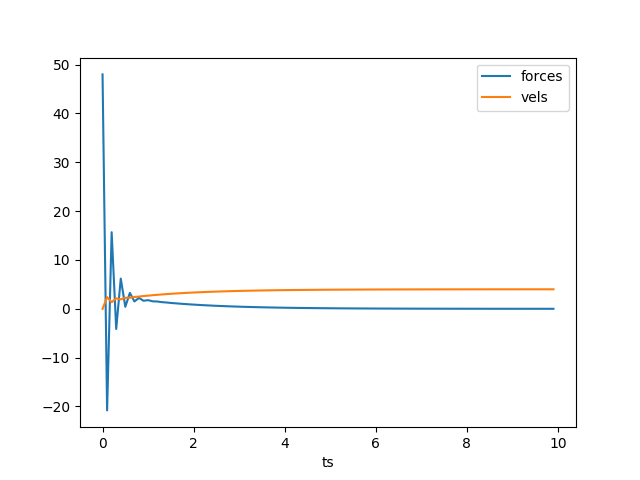
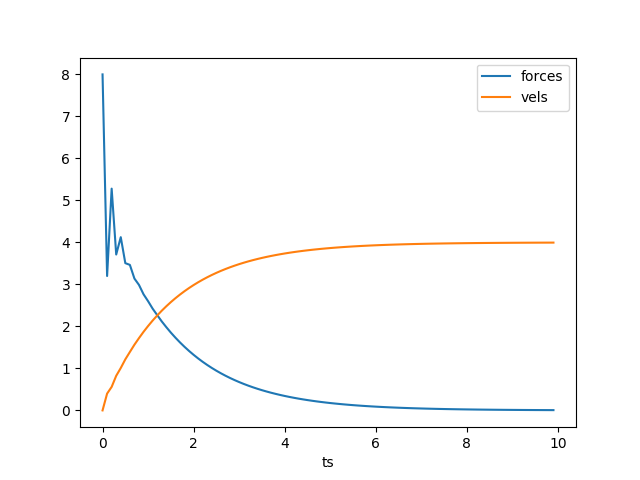
-

diff --git a/phy/phy_030_pid/phy_030_pid.html b/phy/phy_030_pid/phy_030_pid.html
@@ -53,13 +53,13 @@ formulu o sebeple objesel yaklasimla kodlamak iyi olabilir. Her degisken
 icin ayri bir PID objesi yaratilabilir, bu objeler eski hatalari, takip
 ettikleri degiskenleri hatirlarlar,</p>
 <pre><code class="python">class PID:
-   def __init__(self, dt, Kp, Ki, Kd):
+   def __init__(self, dt, Kp, Ki, Kd, lastErr=0.0):
       self.Kp = Kp
       self.Ki = Ki
       self.Kd = Kd
       self.dt = dt
       self.errSum = 0
-      self.lastErr = 0
+      self.lastErr = lastErr
 
    def compute(self, setpoint, input):
       error = setpoint - input
@@ -73,7 +73,7 @@ ettikleri degiskenleri hatirlarlar,</p>
 
 <p>Örnek olarak basit bir hedef, 10, ve rasgele bazı çarpanlar üzerinden
 uygulanacak kontrolü hesaplayalım. </p>
-<pre><code class="python">p = PID(0.01, 1, 1, 0)
+<pre><code class="python">p = PID(0.01, 1, 1, 0, 10)
 
 print (p.compute(10,3))
 print (p.compute(10,4))
@@ -89,20 +89,21 @@ print (p.compute(10,8))
 
 <p>Klasik fizik üzerinden ilerleyelim.. Alttaki örnek [2, sf. 12]'den
 alınmıştır, $M$ kütlesindeki bir objeyi masa üzerinden ittirerek bir hedef
-hızına ulaştırmak istiyoruz.</p>
+hızına ulaştırmak istiyoruz. </p>
 <p><img alt="" src="phy_030_pid_02.png" /></p>
 <p>$F = m \ddot{x}$ formülü standart fizik, herhangi bir zaman noktasındaki
 $T$ zaman aralığındaki hız artışı $F = \frac{m v_t - m v_{t-1}}{T}$ ile
-hesaplanabilir. Zaman aralığı 10 milisaniye olsun, kütle $M = 2$ kg,
-ulaşılmak istenen hedef hız 4 metre / saniye. Durağan hızdan başlıyoruz, ve
-PID kontrol ile uygulanması gereken kuvveti görmek istiyoruz,</p>
+hesaplanabilir. Sürtünmeyi hesaba katmayalım. Zaman aralığı 10 milisaniye
+olsun, kütle $M = 2$ kg, ulaşılmak istenen hedef hız 4 metre /
+saniye. Durağan hızdan başlıyoruz, ve PID kontrol ile her $t$ anında
+uygulanması gereken kuvveti görmek istiyoruz,</p>
 <pre><code class="python">import pandas as pd
 
 T = 0.1
 M = 2.0
 desired_vel = 4.0
 vel = 0
-p = PID(T, 2.0, 0, 1.0)
+p = PID(T, 2.0, 0, 1.0, 4.0)
 forces = []; vels = []; velerrs = []; ts = []
 for i in range(100):
     vels.append(vel)
@@ -112,6 +113,7 @@ for i in range(100):
     forces.append(force)
     velerrs.append(p.lastErr)
     ts.append(i*T)
+
 df = pd.DataFrame([ts, forces, vels, velerrs]).T
 df.columns = ['ts','forces','vels','velerrs']
 df = df.set_index('ts')

diff --git a/phy/phy_030_pid/pid__proportional_integral_derivative__kontrol.html b/phy/phy_030_pid/pid__proportional_integral_derivative__kontrol.html
@@ -53,13 +53,13 @@ formulu o sebeple objesel yaklasimla kodlamak iyi olabilir. Her degisken
 icin ayri bir PID objesi yaratilabilir, bu objeler eski hatalari, takip
 ettikleri degiskenleri hatirlarlar,</p>
 <pre><code class="python">class PID:
-   def __init__(self, dt, Kp, Ki, Kd):
+   def __init__(self, dt, Kp, Ki, Kd, lastErr=0.0):
       self.Kp = Kp
       self.Ki = Ki
       self.Kd = Kd
       self.dt = dt
       self.errSum = 0
-      self.lastErr = 0
+      self.lastErr = lastErr
 
    def compute(self, setpoint, input):
       error = setpoint - input
@@ -73,7 +73,7 @@ ettikleri degiskenleri hatirlarlar,</p>
 
 <p>Örnek olarak basit bir hedef, 10, ve rasgele bazı çarpanlar üzerinden
 uygulanacak kontrolü hesaplayalım. </p>
-<pre><code class="python">p = PID(0.01, 1, 1, 0)
+<pre><code class="python">p = PID(0.01, 1, 1, 0, 10)
 
 print (p.compute(10,3))
 print (p.compute(10,4))
@@ -89,20 +89,21 @@ print (p.compute(10,8))
 
 <p>Klasik fizik üzerinden ilerleyelim.. Alttaki örnek [2, sf. 12]'den
 alınmıştır, $M$ kütlesindeki bir objeyi masa üzerinden ittirerek bir hedef
-hızına ulaştırmak istiyoruz.</p>
+hızına ulaştırmak istiyoruz. </p>
 <p><img alt="" src="phy_030_pid_02.png" /></p>
 <p>$F = m \ddot{x}$ formülü standart fizik, herhangi bir zaman noktasındaki
 $T$ zaman aralığındaki hız artışı $F = \frac{m v_t - m v_{t-1}}{T}$ ile
-hesaplanabilir. Zaman aralığı 10 milisaniye olsun, kütle $M = 2$ kg,
-ulaşılmak istenen hedef hız 4 metre / saniye. Durağan hızdan başlıyoruz, ve
-PID kontrol ile uygulanması gereken kuvveti görmek istiyoruz,</p>
+hesaplanabilir. Sürtünmeyi hesaba katmayalım. Zaman aralığı 10 milisaniye
+olsun, kütle $M = 2$ kg, ulaşılmak istenen hedef hız 4 metre /
+saniye. Durağan hızdan başlıyoruz, ve PID kontrol ile her $t$ anında
+uygulanması gereken kuvveti görmek istiyoruz,</p>
 <pre><code class="python">import pandas as pd
 
 T = 0.1
 M = 2.0
 desired_vel = 4.0
 vel = 0
-p = PID(T, 2.0, 0, 1.0)
+p = PID(T, 2.0, 0, 1.0, 4.0)
 forces = []; vels = []; velerrs = []; ts = []
 for i in range(100):
     vels.append(vel)
@@ -112,6 +113,7 @@ for i in range(100):
     forces.append(force)
     velerrs.append(p.lastErr)
     ts.append(i*T)
+
 df = pd.DataFrame([ts, forces, vels, velerrs]).T
 df.columns = ['ts','forces','vels','velerrs']
 df = df.set_index('ts')

diff --git a/phy/phy_030_pid/PD_mass_vel_control.m b/phy/phy_030_pid/PD_mass_vel_control.m
@@ -30,10 +30,13 @@ vel_error = desired_vel - vel; %Velocity error
 for index = 1:100
     prev_vel_error = vel_error;
     vel_error = desired_vel - vel; %Velocity error
+    vel_error
+    prev_vel_error
     force = P_gain*vel_error + D_gain*(vel_error - prev_vel_error)/T; % Force is calculated like this    
     accel = force/M;
     vel = vel + accel*T;
     data = [data;[index*T vel vel_error force]];
+    exit;
 end
 
 
@@ -64,6 +67,6 @@ Force = data(:,4);
 %    end
 %    hold on;
 
-velocities
+Force
     
 %end
